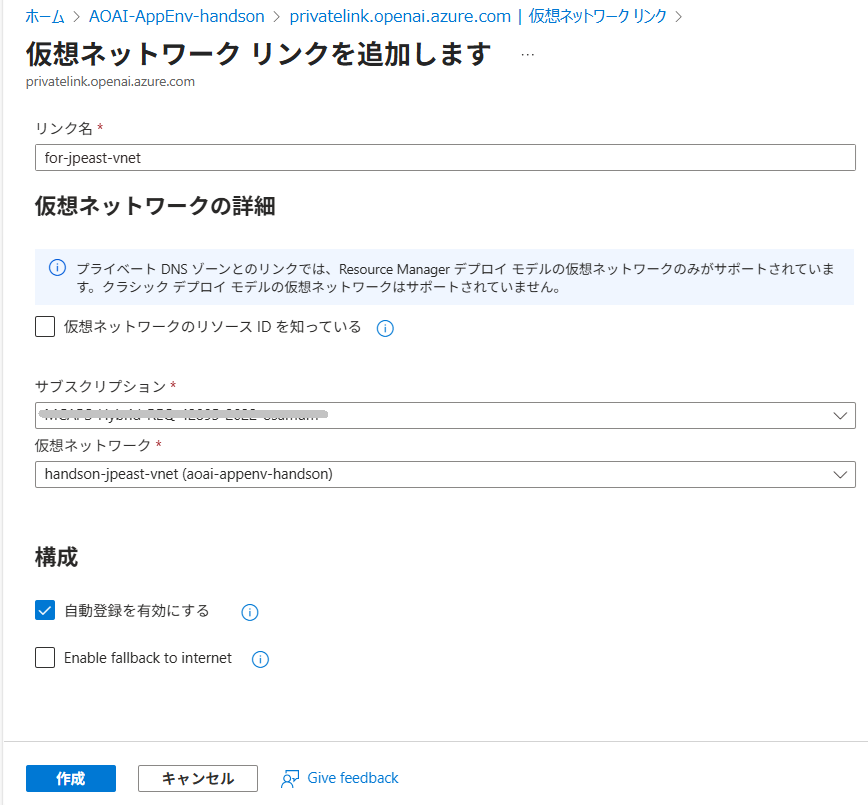
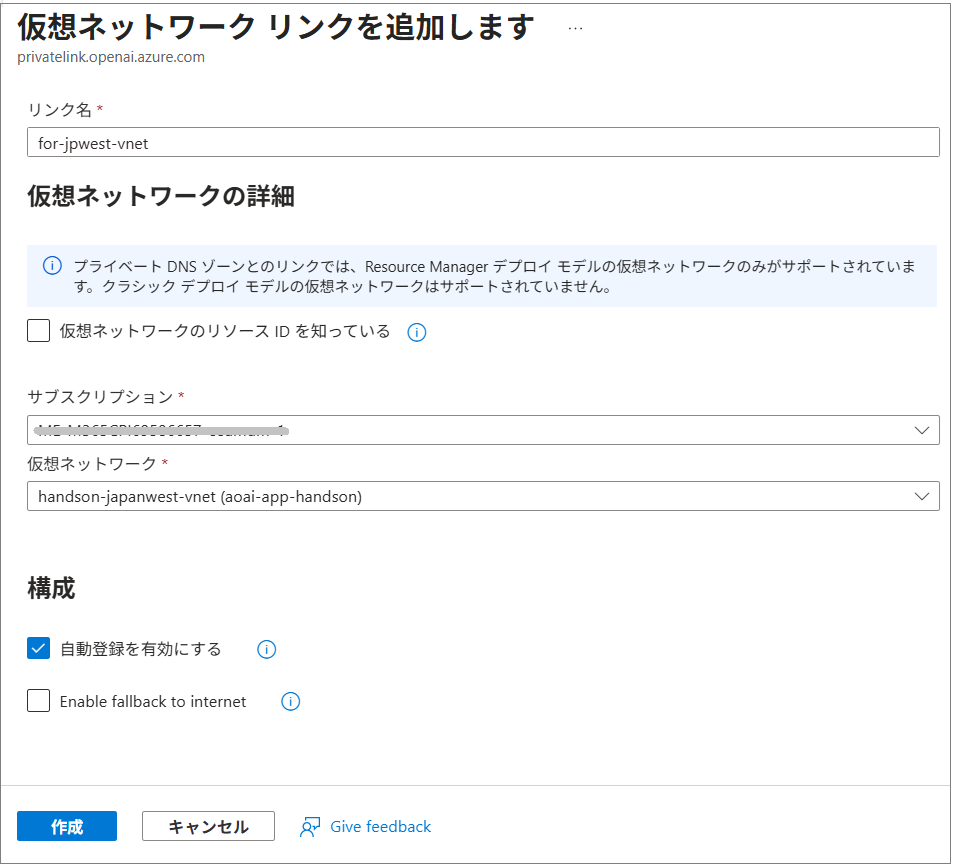
update vnet setting UI for aoai

Changed region(s): [[0.0, 0.0, 1.0, 1.0], [0.0, 0.6522, 0.3111, 0.7764], [0.0, 0.8075, 0.3111, 0.8385]]

diff --git a/Ex05-2.md b/Ex05-2.md
@@ -392,7 +392,7 @@ Azure Portal を使用して仮想ネットワーク環境を作成します。
    
     |項目|設定値|
     |:---|:---|
-    |ピアリング リンクの名前 \*|`eastus-to-jpeast`|
+    |ピアリング リンクの名前 \*|`eastus-to-jpwest`|
     |仮想ネットワークのデプロイ モデル|\[**Resource Manager**\] にチェック|
     |リソース ID を知っている|*チェックしない*|
     |サブスクリプション|*使用するサブスクリプション*|
@@ -429,11 +429,15 @@ Azure Portal を使用して仮想ネットワーク環境を作成します。
 
     ここまでの手順で、仮想ネットワーク同士は通信可能になりましたが、名前解決はできない状態です。プライベート エンドポイント作成時に追加されたプライベート DNS ゾーンに [仮想ネットワークリンク](https://learn.microsoft.com/ja-jp/azure/dns/private-dns-virtual-network-links) を追加して名前解決できるようにします。
 
-3. Azure ポータルで、リソース グループ **AOAI-AppEnv-handson** のプロパティ画面を開き、画面内にあるリソースの一覧からこの演習で使用している Azure OpenAI のプライベート エンドポイント作成時に自動的に作成されたプライベート DNS ゾーンをクリックします。
+3. Azure ポータルで、リソース グループ **AOAI-AppEnv-handson** のプロパティ画面を開き、画面内にあるリソースの一覧からこの演習で使用している **Azure OpenAI のプライベート エンドポイント**作成時に自動的に作成されたプライベート DNS ゾーンをクリックします。
 
     ![プライベート DNS ゾーンの選択](images/prevateDNS_listed.png)
 
-4. プライベート DNS ゾーンのプロパティ画面に遷移するので、画面左のメニューから \[設定\] - \[**仮想ネットワークリンク**\] を選択します
+    もし、リソースの一覧から見つからない場合は、Azure ポータルのホーム画面上部の検索ボックスに 'プライベート DNS ゾーン' と入力して検索してください。ドロップダウンリストの \[プライベート DNS ゾーン\] を選択すると、プライベート DNS ゾーンのリソースの一覧が表示されます。
+
+     ![プライベート DNS ゾーンの検索](images/Private_DNS_find.png)
+
+4. プライベート DNS ゾーンのプロパティ画面に遷移するので、画面左のメニューから \[DNS の管理\] - \[**仮想ネットワークリンク**\] を選択します
 
     遷移した画面上部にある \[**+ 追加**\] ボタンをクリックします
 
@@ -443,7 +447,7 @@ Azure Portal を使用して仮想ネットワーク環境を作成します。
 
     |項目|設定値|
     |:---|:---|
-    |リンク名|`for-jpeast-vnet`|
+    |リンク名|`for-jpwest-vnet`|
     |サブスクリプション \*|*お使いのサブスクリプション*|
     |仮想ネットワーク \*|`handson-jpwest-vnet`|
     |自動登録を有効にする|**チェック**(※)|
@@ -464,7 +468,7 @@ Azure Portal を使用して仮想ネットワーク環境を作成します。
     メモ帳などを使用して以下のようにコマンド内の %AOAI-ENDPOINT% と %AOAI-APIKEY% の部分を実際の値に置き換えたコマンドを作成します。
 
     ```powershell
-    $uri = "%AOAI-ENDPOINT%/openai/deployments/gpt-4o-mini/chat/completions?api-version=2025-01-01-preview"
+    $uri = "%AOAI-ENDPOINT%/openai/deployments/gpt-5-chat/chat/completions?api-version=2025-01-01-preview"
     $headers = @{
         "Content-Type" = "application/json"
         "api-key" = "%AOAI-APIKEY%"
